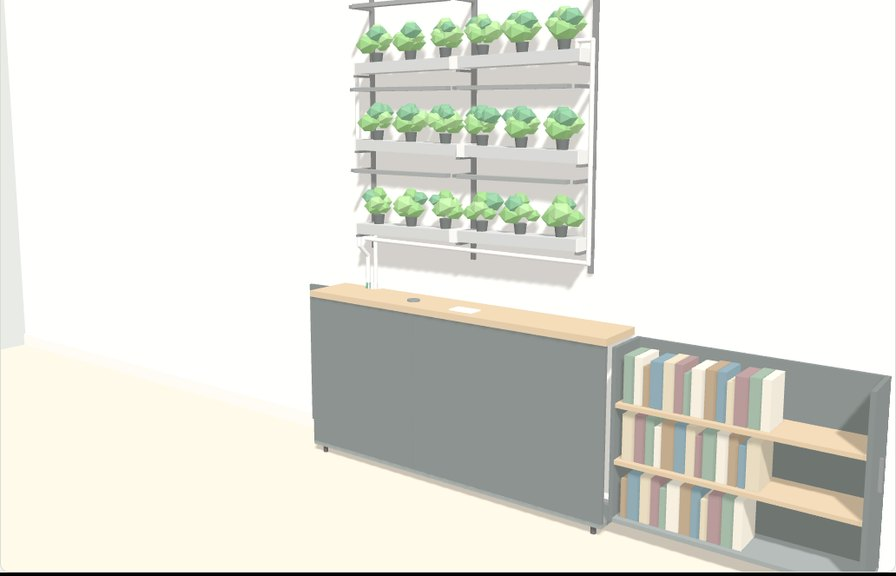
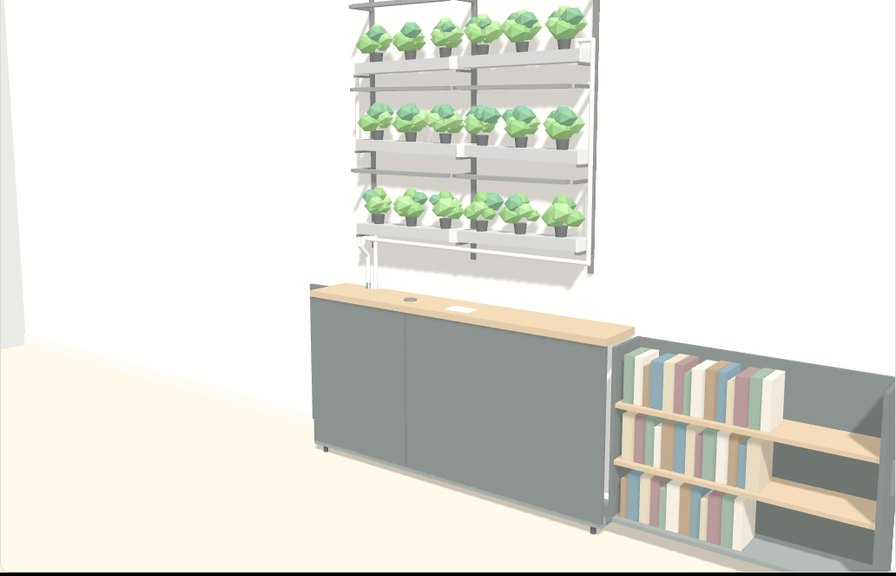
Mobile: vano serbatoio da 60 cm fisso, libreria nel resto (100 cm sul 160)
Claude-Session: https://claude.ai/code/session_01Jk6SYF2HS9JUPJdGkx17YY

Changed region(s): [[0.9375, 0.6562, 1.0, 1.0]]

diff --git a/3d.html b/3d.html
@@ -120,7 +120,7 @@ legend { font-size: 11.5px; text-transform: uppercase; letter-spacing: .08em; co
     <div>
       <p style="margin:0 0 6px;font-size:13px"><a href="index.html" style="color:var(--accent)">&larr; Scheda prodotto</a></p>
       <h1>Parete Verde</h1>
-      <p class="sub">Mobile dietro divano con un vano fisso per serbatoio e alimentatore (40% della lunghezza, anta sul fianco) e una libreria che scorre di lato (60%), più parete idroponica a moduli da 60 cm. Cambia la configurazione, apri il mobile o guarda l'esploso.</p>
+      <p class="sub">Mobile dietro divano con un vano fisso da 60 cm per serbatoio e alimentatore (anta sul fianco) e una libreria che scorre di lato nel resto della lunghezza, più parete idroponica a moduli da 60 cm. Cambia la configurazione, apri il mobile o guarda l'esploso.</p>
     </div>
 
     <fieldset>
@@ -183,7 +183,7 @@ legend { font-size: 11.5px; text-transform: uppercase; letter-spacing: .08em; co
   <section class="drawings" aria-labelledby="dtitle">
     <div>
       <h2 id="dtitle">Dentro il mobile</h2>
-      <p class="sub">Due parti affiancate sotto un piano unico. Dal lato della sagoma per i tubi c'è un vano fisso, il 40% della lunghezza: una scatola chiusa con un'anta sul fianco, dentro cui si appoggia un serbatoio standard e, su una mensola, alimentatore e timer. Il resto, il 60%, è una libreria che scorre di lato su guide; quando è chiusa la copre il fronte fisso. Disegni per il mobile da 160 cm, piano a 82 cm, parete da 2 moduli (120 cm) per 3 file.</p>
+      <p class="sub">Due parti affiancate sotto un piano unico. Dal lato della sagoma per i tubi c'è un vano fisso da 60 cm: una scatola chiusa con un'anta sul fianco, dentro cui si appoggia un serbatoio standard e, su una mensola, alimentatore e timer. Il resto, 100 cm nel mobile da 160, è una libreria che scorre di lato su guide; quando è chiusa la copre il fronte fisso. Disegni per il mobile da 160 cm, piano a 82 cm, parete da 2 moduli (120 cm) per 3 file.</p>
     </div>
     <div class="svgbox">
       <svg viewBox="0 0 960 700" role="img" aria-label="Sezioni del vano serbatoio e della libreria, pianta e prospetto con il mobile aperto">
@@ -246,15 +246,15 @@ legend { font-size: 11.5px; text-transform: uppercase; letter-spacing: .08em; co
         <text class="ttl" x="470" y="30">Pianta, mobile aperto</text>
         <text class="lbl-q" x="470" y="48">dall'alto, piano trasparente, muro in alto</text>
         <rect class="hatchf" x="470" y="70" width="480" height="12"/>
-        <rect class="solid" x="600" y="82" width="70" height="2"/>
+        <rect class="solid" x="600" y="82" width="66" height="2"/>
         <rect class="solid" x="600" y="106" width="176" height="3"/>
-        <rect class="solid" x="668" y="82" width="2" height="27"/>
-        <rect class="water" x="604" y="85" width="61" height="20"/>
+        <rect class="solid" x="664" y="82" width="2" height="27"/>
+        <rect class="water" x="604" y="85" width="57" height="20"/>
         <rect class="solid" x="573" y="82" width="27" height="3"/>
         <path class="dash" d="M600 109A27 27 0 0 1 573 85"/>
         <circle cx="619" cy="88" r="3" fill="var(--water-dark)"/>
         <circle cx="626" cy="88" r="3" fill="var(--accent)"/>
-        <rect class="solid" x="778" y="82" width="106" height="27"/>
+        <rect class="solid" x="778" y="82" width="110" height="27"/>
         <rect class="thin" x="784" y="88" width="8" height="18"/><rect class="thin" x="794" y="88" width="6" height="18"/><rect class="thin" x="802" y="88" width="9" height="18"/><rect class="thin" x="813" y="88" width="7" height="18"/><rect class="thin" x="822" y="88" width="8" height="18"/>
         <path class="ln" d="M590 128H530M538 123L530 128L538 133"/>
         <text class="lbl-q" x="560" y="148" text-anchor="middle">il serbatoio si sfila dal fianco</text>
@@ -262,16 +262,16 @@ legend { font-size: 11.5px; text-transform: uppercase; letter-spacing: .08em; co
         <text class="lbl-q" x="810" y="148" text-anchor="middle">la libreria esce di lato, circa 1 m</text>
         <line class="thin" x1="600" y1="190" x2="776" y2="190"/>
         <line class="thin" x1="600" y1="184" x2="600" y2="196"/>
-        <line class="thin" x1="670" y1="186" x2="670" y2="194"/>
+        <line class="thin" x1="666" y1="186" x2="666" y2="194"/>
         <line class="thin" x1="776" y1="184" x2="776" y2="196"/>
-        <text class="lbl" x="635" y="180" text-anchor="middle">64</text>
-        <text class="lbl" x="723" y="180" text-anchor="middle">96</text>
+        <text class="lbl" x="633" y="180" text-anchor="middle">60</text>
+        <text class="lbl" x="721" y="180" text-anchor="middle">100</text>
         <text class="lbl" x="688" y="212" text-anchor="middle">160 cm chiuso</text>
         <g class="mk"><circle cx="560" cy="102" r="9"/><text x="560" y="106">4</text></g>
         <line class="leader" x1="622" y1="91" x2="640" y2="122"/>
         <g class="mk"><circle cx="645" cy="130" r="9"/><text x="645" y="134">11</text></g>
         <g class="mk"><circle cx="650" cy="96" r="8"/><text x="650" y="100">7</text></g>
-        <g class="mk"><circle cx="860" cy="96" r="9"/><text x="860" y="100">3</text></g>
+        <g class="mk"><circle cx="864" cy="96" r="9"/><text x="864" y="100">3</text></g>
 
         <!-- Prospetto -->
         <text class="ttl" x="470" y="300">Prospetto, mobile aperto</text>
@@ -283,28 +283,28 @@ legend { font-size: 11.5px; text-transform: uppercase; letter-spacing: .08em; co
         <path class="dash" d="M546 518V600M554 518V622"/>
         <rect class="oak" x="518" y="513" width="252" height="5"/>
         <rect class="solid" x="580" y="510" width="16" height="3"/>
-        <rect class="solid" x="520" y="518" width="99" height="111"/>
-        <rect class="dash" x="527" y="584" width="86" height="45"/>
-        <rect class="dash" x="523" y="558" width="93" height="3"/>
+        <rect class="solid" x="520" y="518" width="93" height="111"/>
+        <rect class="dash" x="527" y="584" width="80" height="45"/>
+        <rect class="dash" x="523" y="558" width="87" height="3"/>
         <rect class="dash" x="560" y="547" width="34" height="11"/>
-        <rect class="solid" x="619" y="518" width="149" height="111"/>
-        <text class="lbl-q" x="693" y="600" text-anchor="middle">fronte fisso</text>
+        <rect class="solid" x="613" y="518" width="155" height="111"/>
+        <text class="lbl-q" x="690" y="600" text-anchor="middle">fronte fisso</text>
         <rect class="solid" x="520" y="629" width="248" height="5"/>
         <rect class="thin" x="481" y="518" width="39" height="111"/>
         <rect class="solid" x="485" y="570" width="3" height="18"/>
-        <rect class="solid" x="771" y="519" width="149" height="110"/>
-        <rect class="oak" x="774" y="555" width="143" height="3"/>
-        <rect class="oak" x="774" y="592" width="143" height="3"/>
+        <rect class="solid" x="771" y="519" width="155" height="110"/>
+        <rect class="oak" x="774" y="555" width="149" height="3"/>
+        <rect class="oak" x="774" y="592" width="149" height="3"/>
         <rect class="thin" x="779" y="530" width="8" height="25"/><rect class="thin" x="789" y="533" width="6" height="22"/><rect class="thin" x="797" y="528" width="9" height="27"/><rect class="thin" x="808" y="531" width="7" height="24"/>
         <rect class="thin" x="779" y="567" width="7" height="25"/><rect class="thin" x="788" y="569" width="9" height="23"/><rect class="thin" x="799" y="566" width="6" height="26"/><rect class="thin" x="807" y="570" width="8" height="22"/>
         <rect class="thin" x="779" y="604" width="9" height="25"/><rect class="thin" x="790" y="606" width="7" height="23"/>
-        <path class="ln" d="M780 662H915M907 657L915 662L907 667"/>
+        <path class="ln" d="M780 662H920M912 657L920 662L912 667"/>
         <text class="lbl-q" x="848" y="684" text-anchor="middle">serve circa 1 m libero</text>
         <text class="lbl-q" x="500" y="662" text-anchor="middle">anta 25 cm</text>
         <g class="mk"><circle cx="570" cy="535" r="9"/><text x="570" y="539">2</text></g>
         <g class="mk"><circle cx="500" cy="540" r="9"/><text x="500" y="544">4</text></g>
         <g class="mk"><circle cx="880" cy="540" r="9"/><text x="880" y="544">3</text></g>
-        <g class="mk"><circle cx="693" cy="560" r="9"/><text x="693" y="564">12</text></g>
+        <g class="mk"><circle cx="690" cy="560" r="9"/><text x="690" y="564">12</text></g>
         <g class="mk"><circle cx="588" cy="497" r="9"/><text x="588" y="501">8</text></g>
         <g class="mk"><circle cx="660" cy="497" r="9"/><text x="660" y="501">1</text></g>
         <g class="mk"><circle cx="595" cy="600" r="8"/><text x="595" y="604">7</text></g>
@@ -312,8 +312,8 @@ legend { font-size: 11.5px; text-transform: uppercase; letter-spacing: .08em; co
     </div>
     <ol class="legend">
       <li><b>1</b><span>Piano fisso, appoggiato al muro</span></li>
-      <li><b>2</b><span>Vano serbatoio fisso, 40% della lunghezza, dal lato della sagoma</span></li>
-      <li><b>3</b><span>Libreria scorrevole, 60% della lunghezza: due ripiani, esce dall'altro lato</span></li>
+      <li><b>2</b><span>Vano serbatoio fisso da 60 cm, dal lato della sagoma</span></li>
+      <li><b>3</b><span>Libreria scorrevole, 100 cm nel mobile da 160: due ripiani, esce dall'altro lato</span></li>
       <li><b>4</b><span>Anta sul fianco del vano, cerniere verso il muro: si apre di 25 cm</span></li>
       <li><b>5</b><span>Guide a estrazione totale sotto la libreria, montate sulla base</span></li>
       <li><b>6</b><span>Mensola tecnica nel vano: alimentatore 24 V, timer, ciabatta</span></li>
@@ -530,8 +530,8 @@ legend { font-size: 11.5px; text-transform: uppercase; letter-spacing: .08em; co
     [-1, 1].forEach(k => [0.03, D - 0.03].forEach(z => cyl(g, 0.012, yBase, mat.leg, k * (L / 2 - 0.05), yBase / 2, z)));
     box(g, L, t, D, mat.inner, 0, yBase + t / 2, zc);
 
-    // 40% vano serbatoio fisso dal lato della sagoma, 60% libreria scorrevole dall'altro
-    const wT = Math.round(L * 0.4 * 100) / 100, wB = L - wT;
+    // vano serbatoio fisso da 60 cm dal lato della sagoma, libreria scorrevole nel resto
+    const wT = 0.6, wB = L - wT;              // vano serbatoio sempre da 60 cm, il resto è libreria
     const xT = s * (L / 2 - wT / 2), xB = -s * (L / 2 - wB / 2);
     const hV = H - 0.03 - yRail;              // altezza interna sotto il piano
     const yV = yRail + hV / 2;

diff --git a/index.html b/index.html
@@ -39,17 +39,17 @@ footer { margin-top:48px; color:var(--muted); font-size:13px; }
 <h1>Parete idroponica con mobile dietro divano: scheda prodotto</h1>
 <a class="hero" href="3d.html"><img src="hero.jpg" alt="Modello 3D: mobile dietro il divano con vano serbatoio, libreria scorrevole e parete idroponica sopra" width="896" height="576"><span>Modello 3D interattivo, esploso e sezioni <b>Apri il 3D</b></span></a>
 <p class="meta">Versione 3, ottobre 2026. Concept in sviluppo, cifre stimate.</p>
-<p><strong>Versione 3.</strong> Il mobile si semplifica: il 40% della lunghezza è un vano fisso con anta sul fianco, dove si appoggiano serbatoio e alimentatore; il 60% è una libreria che scorre di lato. Niente più modulo acqua scorrevole né attacchi rapidi. Modello 3D interattivo con esploso, sezioni e percorso dell'acqua: <a href="3d.html">apri il modello 3D</a>.</p>
+<p><strong>Versione 3.</strong> Il mobile si semplifica: un vano fisso da 60 cm con anta sul fianco, dove si appoggiano serbatoio e alimentatore, e una libreria che scorre di lato nel resto della lunghezza (100 cm nel mobile da 160). Niente più modulo acqua scorrevole né attacchi rapidi. Modello 3D interattivo con esploso, sezioni e percorso dell'acqua: <a href="3d.html">apri il modello 3D</a>.</p>
 <h2>Concept</h2>
 <p>Un sistema in due moduli, venduti insieme o separati: un mobile basso e cavo da mettere tra divano e muro, e sopra una parete di canaline idroponiche fatta di moduli da 60 cm. Serbatoio, pompa, alimentatori e cavi stanno nascosti nel mobile.</p>
 <ul>
-<li><strong>Modulo A, mobile dietro divano.</strong> Piano con prese, un vano fisso per serbatoio, pompa e alimentatore (40% della lunghezza, anta sul fianco) e una libreria che scorre di lato (60%).</li>
+<li><strong>Modulo A, mobile dietro divano.</strong> Piano con prese, un vano fisso da 60 cm per serbatoio, pompa e alimentatore (anta sul fianco) e una libreria che scorre di lato nel resto della lunghezza.</li>
 <li><strong>Modulo B, parete idroponica modulare.</strong> Un modulo da 60 cm che si ripete (canalina, barra LED, staffa), binari a muro ogni 60 cm, larghezza e numero di file a scelta.</li>
 </ul>
 <p>Il punto debole delle pareti idroponiche in casa è dove mettere serbatoio, pompa e cavi: di solito restano a vista sul pavimento. Qui li nasconde il mobile, che porta anche la corrente. Il valore sta nell'insieme: il mobile da solo è un oggetto comune, la parete senza mobile ha lo stesso difetto dei concorrenti.</p>
 <p><strong>Cliente tipo:</strong> chi vive in città, ama cucinare e avere piante, cura l'arredamento e non ha balcone o orto. Il divano contro il muro è la situazione più comune nei soggiorni, quindi il mercato potenziale è ampio.</p>
 <h2>Modulo A: mobile con vano serbatoio e libreria scorrevole</h2>
-<p>Sotto un piano unico ci sono due parti. Dal lato dei tubi, per il 40% della lunghezza, un vano fisso: una scatola chiusa con un'anta sul fianco, senza meccanismi, dove il serbatoio standard si appoggia semplicemente sul fondo e una mensola tiene alimentatore e timer. Il restante 60% è una libreria che esce di lato su guide. Chi non vuole la parete usa il vano come contenitore, quindi il mobile si vende anche da solo.</p>
+<p>Sotto un piano unico ci sono due parti. Dal lato dei tubi un vano fisso da 60 cm, uguale per tutte le lunghezze: una scatola chiusa con un'anta sul fianco, senza meccanismi, dove il serbatoio standard si appoggia semplicemente sul fondo e una mensola tiene alimentatore e timer. Il resto è una libreria che esce di lato su guide: 70, 100 o 130 cm per i mobili da 130, 160 e 190. Chi non vuole la parete usa il vano come contenitore, quindi il mobile si vende anche da solo.</p>
 <p><strong>Misure proposte</strong> (versione da 160 cm)</p>
 <div class="tbl"><table>
 <thead>
@@ -73,15 +73,15 @@ footer { margin-top:48px; color:var(--muted); font-size:13px; }
 </tr>
 <tr>
 <td>Vano serbatoio</td>
-<td>64 cm, fisso, anta sul fianco (40% della lunghezza)</td>
+<td>60 cm, fisso, anta sul fianco, uguale per tutte le lunghezze</td>
 </tr>
 <tr>
 <td>Libreria</td>
-<td>96 cm, esce di lato per tutta la sua larghezza (60%)</td>
+<td>100 cm, esce di lato per tutta la sua larghezza</td>
 </tr>
 <tr>
 <td>Spazio libero ai lati</td>
-<td>circa 1 m dal lato della libreria per aprirla del tutto, 25 cm dal lato dell'anta</td>
+<td>circa 105 cm dal lato della libreria per aprirla del tutto, 25 cm dal lato dell'anta</td>
 </tr>
 </tbody>
 </table></div>
@@ -116,7 +116,7 @@ footer { margin-top:48px; color:var(--muted); font-size:13px; }
 </tr>
 </tbody>
 </table></div>
-<p><strong>Libreria.</strong> Vano utile di circa 92 × 69 × 21 cm. Con 2 ripiani (file da 21 cm) ci stanno circa 100 tascabili; con 1 ripiano (file da 32 cm) 55-65 libri di ogni formato. Limite: i libri si prendono facendo uscire la libreria, quindi è un archivio a scomparsa più che una libreria da esposizione.</p>
+<p><strong>Libreria.</strong> Vano utile di circa 96 × 69 × 21 cm. Con 2 ripiani (file da 21 cm) ci stanno circa 100 tascabili; con 1 ripiano (file da 32 cm) 55-65 libri di ogni formato. Limite: i libri si prendono facendo uscire la libreria, quindi è un archivio a scomparsa più che una libreria da esposizione.</p>
 <p><strong>Vano serbatoio.</strong> Serbatoio standard da circa 30 L con coperchio forato e pompa 24 V, appoggiato sul fondo, non integrato nel mobile. Andata e ritorno scendono dalla sagoma e entrano liberi nel coperchio: niente raccordi da staccare. Si rabbocca dal tappo sul piano senza aprire nulla. Per pulirlo si apre l'anta, si sfilano i tubi, si stacca il connettore della pompa e lo si fa scivolare fuori dal fianco, meglio dopo averlo svuotato in parte. Pieno pesa 30-35 kg: per spostare il mobile va svuotato.</p>
 <h2>Modulo B: parete idroponica modulare</h2>
 <p>Tutta la parete è fatta di un modulo da 60 cm che si ripete: canalina con 3 piante, barra LED, staffa. Binari verticali fissati al muro ogni 60 cm reggono le staffe a qualsiasi altezza. Il cliente sceglie quanti moduli in larghezza e quante file, e può aggiungerne in seguito: una parete larga N moduli e alta F file usa N × F canaline e luci, (N − 1) × F giunti e N + 1 binari.</p>
